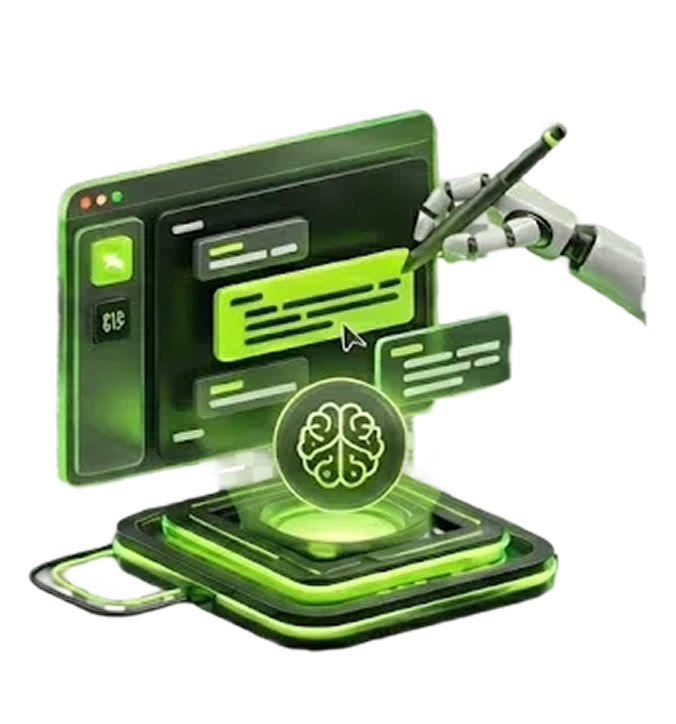
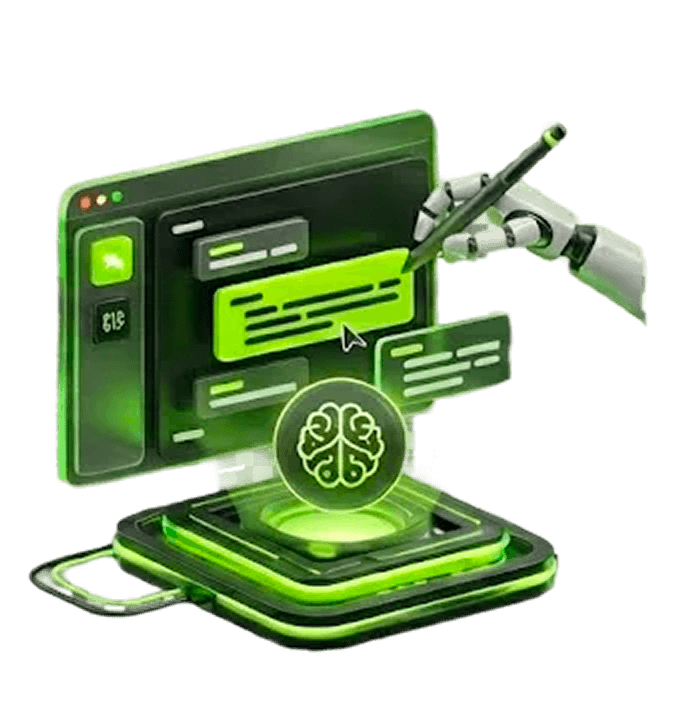
fix: use compressed card illustrations for faster loading
- Replace large RGBA PNGs (~400KB each) with compressed versions (~100KB)
- Add drop-shadow for better contrast against card backgrounds

diff --git a/app/landing-hero.tsx b/app/landing-hero.tsx
@@ -319,7 +319,7 @@ export function LandingHero() {
                 transition={springTransition}
               >
                 {/* eslint-disable-next-line @next/next/no-img-element */}
-                <img src={card.image} alt="" className="w-[160px] h-[160px] object-contain shrink-0 pointer-events-none" />
+                <img src={card.image} alt="" className="w-[160px] h-[160px] object-contain shrink-0 pointer-events-none drop-shadow-[0_4px_20px_rgba(0,0,0,0.4)]" />
                 <div className="flex flex-col gap-[11px] mt-auto pt-4">
                   <h3
                     className={`font-sans font-bold text-[28px] leading-[1.6] whitespace-pre-line ${
